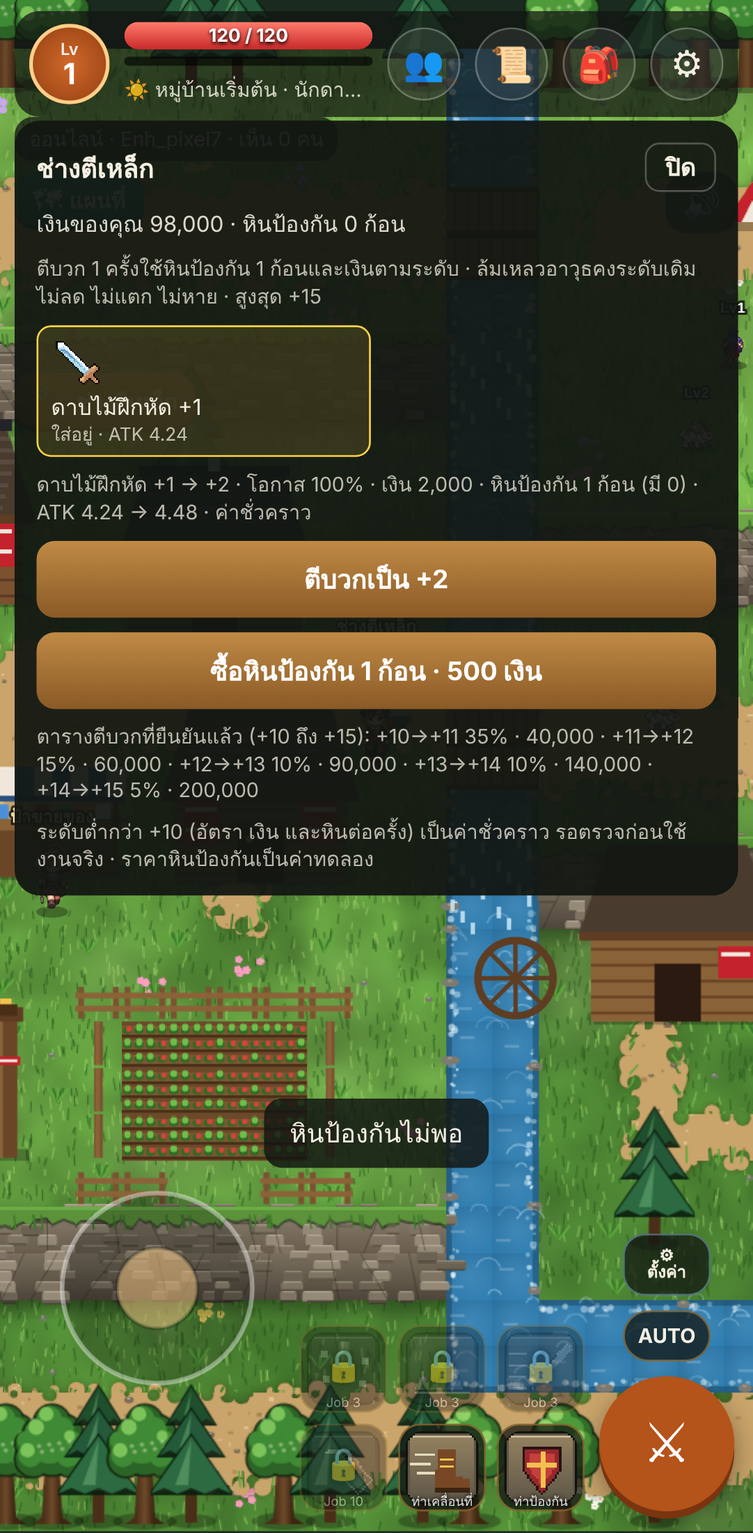
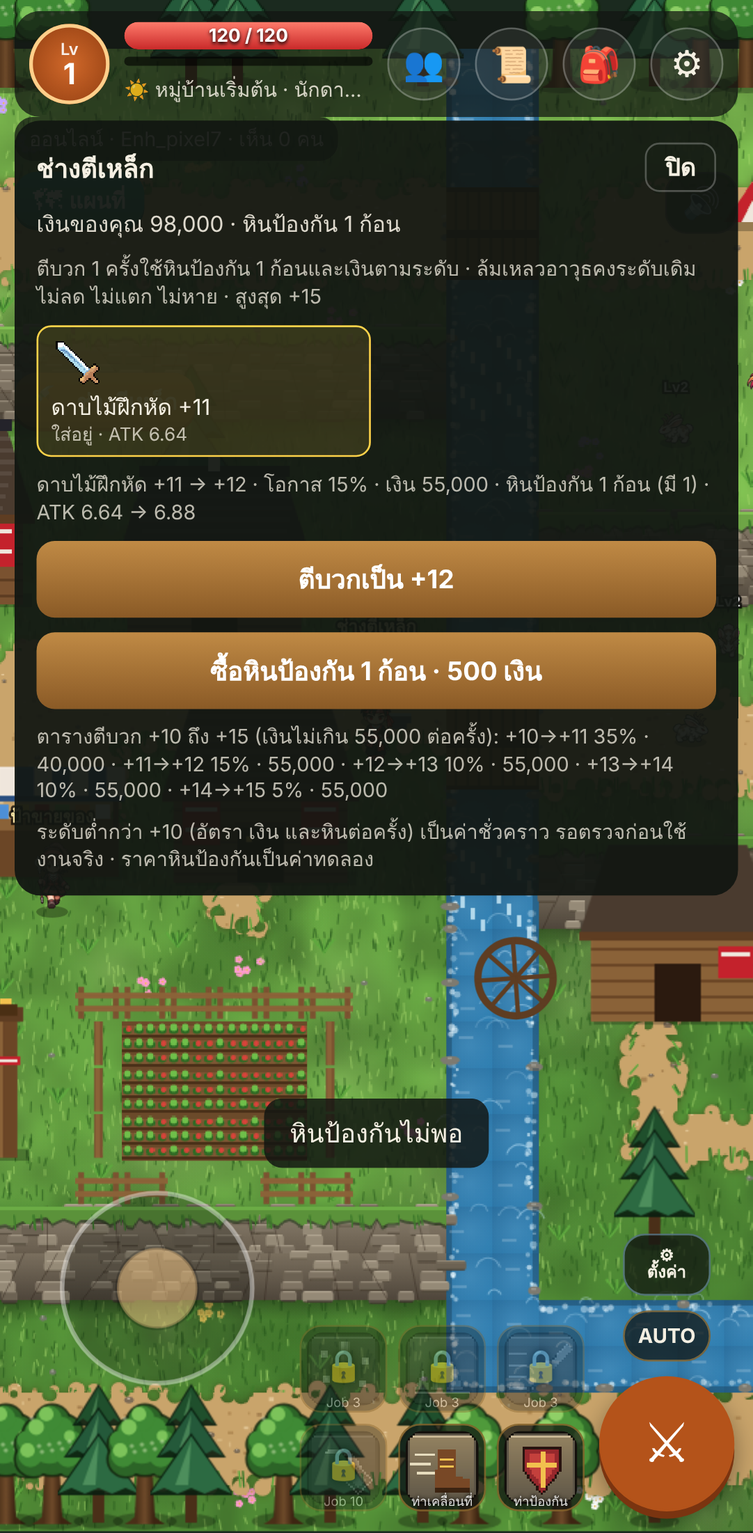
V2-R79: cap enhancement gold per attempt at 55,000 (owner instruction)
- CFG.enhance.goldCap = 55000. The server (sim.enhance) charges and checks
  min(step gold, cap). The V1.2 step values stay in the table for reference.
- +11 to +14 now cost 55,000 (V1.2: 60,000 to 200,000). +10 stays at 40,000.
- The panel shows the capped gold, and the ladder note states the cap.
- Total gold for +10 to +15: 2,680,952 (was 6,814,286). Attempts and stones unchanged (49.5).
- Tests: tools/enh-test.js 56/56 (cap checked in sim and in both phone viewports),
  sim 120, online 104, smoke 152. /healthz reports V2-R79.
- Shop, class-weapon, idle, splash-login and character audit were not rerun after this change.

Claude-Session: https://claude.ai/code/session_01Fx9SAiv1fdMtU2kmML8rNS

diff --git a/game/index.html b/game/index.html
@@ -597,8 +597,8 @@ const CFG={
  /* เศรษฐกิจ (V2-R73): เงินเริ่มต้น · เงินต่อค่าประสบการณ์ของมอนสเตอร์ · เงินบอส · ระยะซื้อของ (ช่อง) — ค่าทดลอง */
  economy:{startGold:100,goldPerExp:.12,bossGold:150,shopRange:3.5},
  /* ตีบวกอาวุธ (V2-R78 · ข้อกำหนด V1.2 ฉบับยืนยัน): steps[ระดับปัจจุบัน] = โอกาสสำเร็จ · เงินต่อครั้ง · หินป้องกันต่อครั้ง
-    ยืนยันแล้ว: +10 ถึง +15 · ระดับ +0 ถึง +9 (prov:1) เป็นค่าชั่วคราวรอตรวจ · powerPerLv (ATK ต่อระดับตีบวก) เป็นค่าทดลอง ยังไม่มีข้อกำหนดยืนยัน */
- enhance:{cap:15,stone:'enh_stone',powerPerLv:.06,cooldownMs:800,steps:[{rate:1,gold:2000,stone:1,prov:1},{rate:1,gold:2000,stone:1,prov:1},{rate:1,gold:2000,stone:1,prov:1},{rate:.85,gold:5000,stone:1,prov:1},{rate:.85,gold:5000,stone:1,prov:1},{rate:.85,gold:5000,stone:1,prov:1},{rate:.65,gold:15000,stone:1,prov:1},{rate:.65,gold:15000,stone:1,prov:1},{rate:.65,gold:15000,stone:1,prov:1},{rate:.65,gold:15000,stone:1,prov:1},{rate:.35,gold:40000,stone:1},{rate:.15,gold:60000,stone:1},{rate:.1,gold:90000,stone:1},{rate:.1,gold:140000,stone:1},{rate:.05,gold:200000,stone:1}]},
+    ยืนยันแล้ว: +10 ถึง +15 · ระดับ +0 ถึง +9 (prov:1) เป็นค่าชั่วคราวรอตรวจ · goldCap 55,000 = เพดานเงินต่อการพยายาม (คำสั่งเจ้าของ V2-R79; steps คงค่า V1.2 ไว้ให้ตรวจย้อนหลัง) · powerPerLv (ATK ต่อระดับตีบวก) เป็นค่าทดลอง ยังไม่มีข้อกำหนดยืนยัน */
+ enhance:{cap:15,stone:'enh_stone',powerPerLv:.06,cooldownMs:800,goldCap:55000,steps:[{rate:1,gold:2000,stone:1,prov:1},{rate:1,gold:2000,stone:1,prov:1},{rate:1,gold:2000,stone:1,prov:1},{rate:.85,gold:5000,stone:1,prov:1},{rate:.85,gold:5000,stone:1,prov:1},{rate:.85,gold:5000,stone:1,prov:1},{rate:.65,gold:15000,stone:1,prov:1},{rate:.65,gold:15000,stone:1,prov:1},{rate:.65,gold:15000,stone:1,prov:1},{rate:.65,gold:15000,stone:1,prov:1},{rate:.35,gold:40000,stone:1},{rate:.15,gold:60000,stone:1},{rate:.1,gold:90000,stone:1},{rate:.1,gold:140000,stone:1},{rate:.05,gold:200000,stone:1}]},
  classWeapon:{'นักดาบ':'sword','นักธนู':'bow','นักฆ่า':'daggers','นักสู้':'fists','ผู้สืบวิญญาณ':'staff','ผู้รักษา':'leafstaff','ผู้ใช้มนตรา':'book','ผู้พิทักษ์':'shield'},
  /* NPC ร้านค้า (V2-R73): ตำแหน่งเป็นช่อง · ร้านขาย [ไอเทม, ราคา] — ค่าทดลอง ยังไม่มีข้อกำหนดยืนยัน */
  npcs:[{id:'shop1',name:'ป้าขายของ',zone:'village',tx:12.5,ty:18.6,shop:[['potion_s',10],['potion_m',30],['sword_wood',50],['sword_iron',150],['bow_wood',50],['bow_iron',150],['daggers_wood',50],['daggers_iron',150],['fists_wood',50],['fists_iron',150],['staff_wood',50],['staff_iron',150],['leafstaff_wood',50],['leafstaff_iron',150],['book_wood',50],['book_iron',150],['shield_wood',50],['shield_iron',150]]},{id:'shop2',name:'ป้าขายของ',zone:'village2',tx:22.5,ty:22.6,shop:[['potion_s',10],['potion_m',30],['sword_wood',50],['sword_iron',150],['bow_wood',50],['bow_iron',150],['daggers_wood',50],['daggers_iron',150],['fists_wood',50],['fists_iron',150],['staff_wood',50],['staff_iron',150],['leafstaff_wood',50],['leafstaff_iron',150],['book_wood',50],['book_iron',150],['shield_wood',50],['shield_iron',150]]},{id:'smith1',name:'ช่างตีเหล็ก',role:'smith',zone:'village',tx:19.5,ty:14.5,shop:[['enh_stone',500]]},{id:'smith2',name:'ช่างตีเหล็ก',role:'smith',zone:'village2',tx:25.5,ty:15.5,shop:[['enh_stone',500]]}],
@@ -1832,10 +1832,10 @@ function renderEnh(){if(enhP.hidden)return;const E=HL.CFG.enhance,I=HL.CFG.items
   if(cur){const it=I[cur.id],lv=cur.enh;
     if(lv>=E.cap)enhNote(it.name+' ถึงระดับสูงสุด +'+E.cap+' แล้ว');
     else{const s=E.steps[lv];
-      enhNote(it.name+' +'+lv+' → +'+(lv+1)+' · โอกาส '+Math.round(s.rate*100)+'% · เงิน '+enhNum(s.gold)+' · หินป้องกัน '+s.stone+' ก้อน (มี '+enhStones()+') · ATK '+enhAtk(cur.id,lv)+' → '+enhAtk(cur.id,lv+1)+(s.prov?' · ค่าชั่วคราว':''));
+      enhNote(it.name+' +'+lv+' → +'+(lv+1)+' · โอกาส '+Math.round(s.rate*100)+'% · เงิน '+enhNum(Math.min(s.gold,E.goldCap))+' · หินป้องกัน '+s.stone+' ก้อน (มี '+enhStones()+') · ATK '+enhAtk(cur.id,lv)+' → '+enhAtk(cur.id,lv+1)+(s.prov?' · ค่าชั่วคราว':''));
       const go=document.createElement('button');go.className='enhgo';go.textContent=enhBusy?'กำลังตีบวก…':'ตีบวกเป็น +'+(lv+1);go.disabled=enhBusy;go.onclick=()=>enhGo(cur);enhP.appendChild(go)}}
   if(sm){const row=sm.shop.find(r=>r[0]===E.stone),bb=document.createElement('button');bb.className='enhgo';bb.textContent='ซื้อหินป้องกัน 1 ก้อน · '+enhNum(row?row[1]:0)+' เงิน';bb.onclick=()=>send({t:'shop',npc:sm.id,id:E.stone,n:1});enhP.appendChild(bb)}
-  enhNote('ตารางตีบวกที่ยืนยันแล้ว (+10 ถึง +15): '+E.steps.slice(10).map((s,k)=>'+'+(k+10)+'→+'+(k+11)+' '+Math.round(s.rate*100)+'% · '+enhNum(s.gold)).join(' · '));
+  enhNote('ตารางตีบวก +10 ถึง +15 (เงินไม่เกิน '+enhNum(E.goldCap)+' ต่อครั้ง): '+E.steps.slice(10).map((s,k)=>'+'+(k+10)+'→+'+(k+11)+' '+Math.round(s.rate*100)+'% · '+enhNum(Math.min(s.gold,E.goldCap))).join(' · '));
   enhNote('ระดับต่ำกว่า +10 (อัตรา เงิน และหินต่อครั้ง) เป็นค่าชั่วคราว รอตรวจก่อนใช้งานจริง · ราคาหินป้องกันเป็นค่าทดลอง');
 }
 /* หน้าต่างสถานะ (V2-R24): แตะวงเลเวลมุมซ้ายบน */

diff --git a/tools/enh-test.js b/tools/enh-test.js
@@ -25,6 +25,7 @@ const countStone = c => c.bag.reduce((n, s) => n + (s.id === EH.stone ? s.n : 0)
 {
   const V12 = [[.35, 40000], [.15, 60000], [.10, 90000], [.10, 140000], [.05, 200000]];
   rec('ระดับตีบวกสูงสุด +15', EH.cap === 15);
+  rec('เพดานเงินต่อการพยายาม 55,000 (คำสั่งเจ้าของ V2-R79)', EH.goldCap === 55000);
   rec('ตารางที่ยืนยันแล้ว +10→+11 ถึง +14→+15 (โอกาส · เงิน · หินป้องกัน 1)', V12.every(([r, g], k) => { const s = EH.steps[10 + k]; return s.rate === r && s.gold === g && s.stone === 1 && !s.prov; }));
   rec('ค่าต่ำกว่า +10 ติดธง prov (ค่าชั่วคราว รอตรวจ)', EH.steps.slice(0, 10).every(s => s.prov === 1));
   rec('หินป้องกันเป็นวัตถุดิบ (mat)', !!C.items[EH.stone] && C.items[EH.stone].type === 'mat');
@@ -70,6 +71,15 @@ const countStone = c => c.bag.reduce((n, s) => n + (s.id === EH.stone ? s.n : 0)
   rec('ล้มเหลวที่ +10 → คงที่ +10 ไม่ลด ไม่หาย', !r9.ok && r9.to === 10 && p9.c.enh.weapon === 10 && p9.c.eq.weapon === 'sword_hmong' && p9.c.gold === 1000000 - 40000 && countStone(p9.c) === 1, JSON.stringify({ ok: r9.ok, enh: p9.c.enh.weapon, gold: p9.c.gold, stone: countStone(p9.c) }));
   const p10 = mk({ enh: { weapon: 15 }, eq: { weapon: 'sword_hmong', armor: null, acc: null } }); p10.c.bag.push({ id: 'enh_stone', n: 2 });
   rec('ถึง +15 แล้ว → max (ตีบวกต่อไม่ได้)', simLow.enhance(p10, { src: 'eq', rid: rid() }, 600) === 'max');
+  // เพดานเงินต่อการพยายาม 55,000: ขั้น +11 ถึง +14 จ่ายไม่เกิน 55,000 (ค่า V1.2 เดิม 60,000 ถึง 200,000) · ขั้น +10 ยัง 40,000
+  const pC = mk({ gold: 55000, enh: { weapon: 11 }, eq: { weapon: 'sword_hmong', armor: null, acc: null } }); pC.c.bag.push({ id: 'enh_stone', n: 1 });
+  const rC = sim.enhance(pC, { src: 'eq', rid: rid() }, 800);
+  rec('ตีบวกจาก +11 จ่ายเพียง 55,000 (ไม่ใช่ 60,000) และหักครบ', rC.ok && rC.to === 12 && rC.gold === 55000 && pC.c.gold === 0, JSON.stringify({ gold: rC.gold, left: pC.c.gold, to: rC.to }));
+  const pC2 = mk({ gold: 54999, enh: { weapon: 14 }, eq: { weapon: 'sword_hmong', armor: null, acc: null } }); pC2.c.bag.push({ id: 'enh_stone', n: 1 });
+  rec('เงิน 54,999 ไม่พอสำหรับ +14 (เพดาน 55,000) → no-gold และไม่หัก', sim.enhance(pC2, { src: 'eq', rid: rid() }, 800) === 'no-gold' && pC2.c.gold === 54999);
+  const pT = mk({ gold: 40000, enh: { weapon: 10 }, eq: { weapon: 'sword_hmong', armor: null, acc: null } }); pT.c.bag.push({ id: 'enh_stone', n: 1 });
+  const rT = sim.enhance(pT, { src: 'eq', rid: rid() }, 800);
+  rec('ขั้น +10 ยังจ่าย 40,000 (ต่ำกว่าเพดาน)', rT.gold === 40000 && pT.c.gold === 0, JSON.stringify({ gold: rT.gold, left: pT.c.gold }));
 
   // อาวุธในกระเป๋าตีบวกได้โดยไม่ต้องใส่
   const p11 = mk({ eq: { weapon: null, armor: null, acc: null } }); p11.c.bag.push({ id: 'sword_iron', n: 1 }, { id: 'enh_stone', n: 2 });
@@ -196,7 +206,13 @@ const countStone = c => c.bag.reduce((n, s) => n + (s.id === EH.stone ? s.n : 0)
     await page.click('#shb');
     await page.waitForSelector('#enh:not([hidden])', { timeout: 5000 });
     await sleep(400);
+    // เพดานเงินต่อการพยายาม: ที่ +11 ต้องแสดงเงิน 55,000 (ไม่ใช่ 60,000) — ถ่ายภาพที่สถานะนี้ แล้วคืนค่าเดิมสำหรับการตรวจฐานข้อมูลด้านล่าง
+    p.c.enh.weapon = 11; p.c.bag.push({ id: 'enh_stone', n: 1 }); p.bagDirty = true; p.dirty = true;
+    await page.waitForFunction(() => (document.getElementById('enh').innerText || '').includes('+11 → +12'), null, { timeout: 6000 });
+    const t11 = await panel();
+    rec(label + ': หน้าช่างที่ +11 แสดงเงิน 55,000 (เพดาน) ไม่ใช่ 60,000', t11.includes('เงิน 55,000') && !t11.includes('เงิน 60,000'), t11.split('\n').filter(l => l.includes('+11 → +12')).join(' | ').slice(0, 140));
     await page.screenshot({ path: path.join(evDir, shot) });
+    p.c.enh.weapon = 1; p.c.bag = p.c.bag.filter(x => x.id !== 'enh_stone'); p.bagDirty = true; p.dirty = true;
     rec(label + ': ไม่มี JavaScript error', errors.length === 0, errors.slice(0, 3).join(' | ') || 'ไม่มี');
 
     await browser.close();

diff --git a/shared/world.js b/shared/world.js
@@ -299,8 +299,8 @@ const CFG={
  /* เศรษฐกิจ (V2-R73): เงินเริ่มต้น · เงินต่อค่าประสบการณ์ของมอนสเตอร์ · เงินบอส · ระยะซื้อของ (ช่อง) — ค่าทดลอง */
  economy:{startGold:100,goldPerExp:.12,bossGold:150,shopRange:3.5},
  /* ตีบวกอาวุธ (V2-R78 · ข้อกำหนด V1.2 ฉบับยืนยัน): steps[ระดับปัจจุบัน] = โอกาสสำเร็จ · เงินต่อครั้ง · หินป้องกันต่อครั้ง
-    ยืนยันแล้ว: +10 ถึง +15 · ระดับ +0 ถึง +9 (prov:1) เป็นค่าชั่วคราวรอตรวจ · powerPerLv (ATK ต่อระดับตีบวก) เป็นค่าทดลอง ยังไม่มีข้อกำหนดยืนยัน */
- enhance:{cap:15,stone:'enh_stone',powerPerLv:.06,cooldownMs:800,steps:[{rate:1,gold:2000,stone:1,prov:1},{rate:1,gold:2000,stone:1,prov:1},{rate:1,gold:2000,stone:1,prov:1},{rate:.85,gold:5000,stone:1,prov:1},{rate:.85,gold:5000,stone:1,prov:1},{rate:.85,gold:5000,stone:1,prov:1},{rate:.65,gold:15000,stone:1,prov:1},{rate:.65,gold:15000,stone:1,prov:1},{rate:.65,gold:15000,stone:1,prov:1},{rate:.65,gold:15000,stone:1,prov:1},{rate:.35,gold:40000,stone:1},{rate:.15,gold:60000,stone:1},{rate:.1,gold:90000,stone:1},{rate:.1,gold:140000,stone:1},{rate:.05,gold:200000,stone:1}]},
+    ยืนยันแล้ว: +10 ถึง +15 · ระดับ +0 ถึง +9 (prov:1) เป็นค่าชั่วคราวรอตรวจ · goldCap 55,000 = เพดานเงินต่อการพยายาม (คำสั่งเจ้าของ V2-R79; steps คงค่า V1.2 ไว้ให้ตรวจย้อนหลัง) · powerPerLv (ATK ต่อระดับตีบวก) เป็นค่าทดลอง ยังไม่มีข้อกำหนดยืนยัน */
+ enhance:{cap:15,stone:'enh_stone',powerPerLv:.06,cooldownMs:800,goldCap:55000,steps:[{rate:1,gold:2000,stone:1,prov:1},{rate:1,gold:2000,stone:1,prov:1},{rate:1,gold:2000,stone:1,prov:1},{rate:.85,gold:5000,stone:1,prov:1},{rate:.85,gold:5000,stone:1,prov:1},{rate:.85,gold:5000,stone:1,prov:1},{rate:.65,gold:15000,stone:1,prov:1},{rate:.65,gold:15000,stone:1,prov:1},{rate:.65,gold:15000,stone:1,prov:1},{rate:.65,gold:15000,stone:1,prov:1},{rate:.35,gold:40000,stone:1},{rate:.15,gold:60000,stone:1},{rate:.1,gold:90000,stone:1},{rate:.1,gold:140000,stone:1},{rate:.05,gold:200000,stone:1}]},
  classWeapon:{'นักดาบ':'sword','นักธนู':'bow','นักฆ่า':'daggers','นักสู้':'fists','ผู้สืบวิญญาณ':'staff','ผู้รักษา':'leafstaff','ผู้ใช้มนตรา':'book','ผู้พิทักษ์':'shield'},
  /* NPC ร้านค้า (V2-R73): ตำแหน่งเป็นช่อง · ร้านขาย [ไอเทม, ราคา] — ค่าทดลอง ยังไม่มีข้อกำหนดยืนยัน */
  npcs:[{id:'shop1',name:'ป้าขายของ',zone:'village',tx:12.5,ty:18.6,shop:[['potion_s',10],['potion_m',30],['sword_wood',50],['sword_iron',150],['bow_wood',50],['bow_iron',150],['daggers_wood',50],['daggers_iron',150],['fists_wood',50],['fists_iron',150],['staff_wood',50],['staff_iron',150],['leafstaff_wood',50],['leafstaff_iron',150],['book_wood',50],['book_iron',150],['shield_wood',50],['shield_iron',150]]},{id:'shop2',name:'ป้าขายของ',zone:'village2',tx:22.5,ty:22.6,shop:[['potion_s',10],['potion_m',30],['sword_wood',50],['sword_iron',150],['bow_wood',50],['bow_iron',150],['daggers_wood',50],['daggers_iron',150],['fists_wood',50],['fists_iron',150],['staff_wood',50],['staff_iron',150],['leafstaff_wood',50],['leafstaff_iron',150],['book_wood',50],['book_iron',150],['shield_wood',50],['shield_iron',150]]},{id:'smith1',name:'ช่างตีเหล็ก',role:'smith',zone:'village',tx:19.5,ty:14.5,shop:[['enh_stone',500]]},{id:'smith2',name:'ช่างตีเหล็ก',role:'smith',zone:'village2',tx:25.5,ty:15.5,shop:[['enh_stone',500]]}],

diff --git a/server/sim.js b/server/sim.js
@@ -289,13 +289,14 @@ function createSim({ rand = Math.random } = {}) {
     const it = CFG.items[id]; if (!it || it.type !== 'eq' || it.slot !== 'weapon') return 'not-weapon';
     if (lv >= EH.cap) return 'max';
     const st = EH.steps[lv]; if (!st) return 'invalid';
-    if ((c.gold || 0) < st.gold) return 'no-gold';
+    const gold = Math.min(st.gold, EH.goldCap); // เพดานเงินต่อการพยายาม 55,000 ตามคำสั่งเจ้าของ (V2-R79)
+    if ((c.gold || 0) < gold) return 'no-gold';
     if (countItem(p, EH.stone) < st.stone) return 'no-stone';
-    c.gold -= st.gold; takeItem(p, EH.stone, st.stone); // หักก่อนสุ่มเสมอ (ล้มเหลวก็หัก)
+    c.gold -= gold; takeItem(p, EH.stone, st.stone); // หักก่อนสุ่มเสมอ (ล้มเหลวก็หัก)
     const ok = rand() < st.rate;
     if (ok) { if (m.src === 'eq') setEnh(p, 'weapon', lv + 1); else c.bag[idx].enh = lv + 1; stats(p); }
     p.enhAt = now; p.bagDirty = true; p.dirty = true;
-    const r = { ok, from: lv, to: ok ? lv + 1 : lv, item: id, gold: st.gold, stone: st.stone, goldLeft: c.gold };
+    const r = { ok, from: lv, to: ok ? lv + 1 : lv, item: id, gold, stone: st.stone, goldLeft: c.gold };
     p.personal.push({ k: 'enh', ok, from: r.from, to: r.to, item: id });
     return r;
   }

diff --git a/server/server.js b/server/server.js
@@ -74,7 +74,7 @@ function createServer(opts = {}) {
     const url = new URL(req.url, 'http://x');
     for (const [k, v] of Object.entries(SEC_HEADERS)) res.setHeader(k, v);
     try {
-      if (req.method === 'GET' && url.pathname === '/healthz') return json(res, 200, { ok: true, ver: 'V2-R78', online: online.size, uptime: Math.round(process.uptime()), admins: conf.admins.length }); // admins = จำนวนชื่อใน ADMIN_USERS (ไม่เปิดเผยชื่อ) ใช้ตรวจว่าตั้งค่าบน Render แล้ว
+      if (req.method === 'GET' && url.pathname === '/healthz') return json(res, 200, { ok: true, ver: 'V2-R79', online: online.size, uptime: Math.round(process.uptime()), admins: conf.admins.length }); // admins = จำนวนชื่อใน ADMIN_USERS (ไม่เปิดเผยชื่อ) ใช้ตรวจว่าตั้งค่าบน Render แล้ว
       if (req.method === 'GET' && (url.pathname === '/' || url.pathname === '/index.html')) {
         res.writeHead(200, { 'content-type': 'text/html; charset=utf-8', 'cache-control': 'no-cache' });
         return fs.createReadStream(conf.gameFile).pipe(res);

diff --git a/tools/weapon_balance.py b/tools/weapon_balance.py
@@ -23,8 +23,9 @@ def load_cfg():
 
 
 def step(cfg, lv):
+    """ค่าของขั้น lv หลังใช้เพดานเงินต่อการพยายาม (goldCap, คำสั่งเจ้าของ V2-R79)"""
     s = cfg['steps'][lv]
-    return s['rate'], s['gold'], s['stone'], bool(s.get('prov'))
+    return s['rate'], min(s['gold'], cfg['goldCap']), s['stone'], bool(s.get('prov'))
 
 
 def expected(cfg, a, b):
@@ -65,15 +66,15 @@ def main():
         s = cfg['steps'][10 + k]
         assert abs(s['rate'] - r) < 1e-12 and s['gold'] == g and s['stone'] == 1 and not s.get('prov'), 'ไม่ตรงข้อกำหนด +%d' % (10 + k)
 
-    print('## 1. ตารางที่ยืนยันแล้ว: +10 ถึง +15 (อ่านจาก CFG.enhance)')
-    print('| จาก → ไป | โอกาสสำเร็จ | เงินต่อครั้ง | หินป้องกันต่อครั้ง | ครั้งที่คาดหวังในขั้นนี้ | เงินที่คาดหวังในขั้นนี้ |')
-    print('| --- | --- | --- | --- | --- | --- |')
+    print('## 1. ตารางตีบวก +10 ถึง +15 (อ่านจาก CFG.enhance; เพดานเงินต่อครั้ง %s)' % f"{cfg['goldCap']:,}")
+    print('| จาก → ไป | โอกาสสำเร็จ | เงินตาม V1.2 | เงินที่ใช้จริง | หินป้องกันต่อครั้ง | ครั้งที่คาดหวังในขั้นนี้ | เงินที่คาดหวังในขั้นนี้ |')
+    print('| --- | --- | --- | --- | --- | --- | --- |')
     for lv in range(10, 15):
         r, g, st, _ = step(cfg, lv)
         a, gg, ss = expected(cfg, lv, lv + 1)
-        print('| +%d → +%d | %d%% | %s | %d | %.1f | %s |' % (lv, lv + 1, round(r * 100), f'{g:,}', st, a, f'{gg:,.0f}'))
+        print('| +%d → +%d | %d%% | %s | %s | %d | %.1f | %s |' % (lv, lv + 1, round(r * 100), f"{cfg['steps'][lv]['gold']:,}", f'{g:,}', st, a, f'{gg:,.0f}'))
     a10, g10, s10 = expected(cfg, 10, 15)
-    print('| **รวม +10 → +15** | | | | **%.1f** | **%s** |' % (a10, f'{g10:,.0f}'))
+    print('| **รวม +10 → +15** | | | | | **%.1f** | **%s** |' % (a10, f'{g10:,.0f}'))
     print()
     print('- หินป้องกันที่คาดหวังจาก +10 ถึง +15: %.1f ก้อน (ครั้งละ 1 ก้อน ทุกการพยายาม)' % s10)
 

diff --git a/docs/ENHANCEMENT_V12.md b/docs/ENHANCEMENT_V12.md
@@ -1,4 +1,4 @@
-# ระบบตีบวกอาวุธ V1.2 (ฉบับยืนยัน) — สถานะการพัฒนา V2-R78
+# ระบบตีบวกอาวุธ V1.2 (ฉบับยืนยัน) — สถานะการพัฒนา V2-R78 · แก้เพดานเงิน V2-R79
 
 บันทึกเมื่อ 2026-11-15 · แทนที่ข้อเสนอ V1 ใน `docs/WEAPON_SYSTEM.md`
 
@@ -7,30 +7,35 @@
 | ส่วน | สถานะ |
 | --- | --- |
 | กติกาที่ยืนยันแล้ว (ส่วน 1–2 ของ V1.2) | **พัฒนาแล้ว · ทดสอบผ่านอัตโนมัติ** |
+| เพดานเงินต่อการพยายาม 55,000 (คำสั่งเจ้าของ V2-R79) | **ทำแล้ว · ทดสอบผ่านอัตโนมัติ** |
 | ช่างตีเหล็ก หน้าต่างตีบวก คลังวัตถุดิบ โค้ดเซิร์ฟเวอร์ | **พัฒนาแล้ว · ทดสอบผ่านอัตโนมัติ** (Pixel 7 และ iPhone 13 บน Chromium) |
 | ติดตั้งในโค้ด | **ทำแล้ว** · ยังไม่ได้ deploy ขึ้นเซิร์ฟเวอร์จริง (Render) |
-| ค่าชั่วคราว (ส่วน 3) และเศรษฐกิจ (ส่วน 4) | **รอเจ้าของตัดสิน** ก่อนเปิดให้ผู้เล่นใช้จริง |
+| ค่าชั่วคราว (ส่วน 2) | **ยอมรับใช้ระหว่างทดสอบ** (ตอบ "1-2") · ยังไม่ใช่ค่าสุดท้าย |
+| เศรษฐกิจ +10 ถึง +15 (ส่วน 3) | **รอเจ้าของเลือกทาง** — หลังเพดานยังประมาณ 2.68 ล้านเงิน |
 | WebKit / iPhone จริง | **ยังไม่ได้ทดสอบ** (เครื่องทดสอบมีเฉพาะ Chromium) |
 
-## 1. ตารางที่ยืนยันแล้ว (+10 ถึง +15)
+## 1. ตารางตีบวก +10 ถึง +15
 
 จาก → ไป คืออัตราของการเสริมจากระดับปัจจุบัน (ตามที่เขียนใน V1.2)
 
-| จาก → ไป | โอกาสสำเร็จ | เงินต่อครั้ง | หินป้องกันต่อครั้ง |
-| --- | --- | --- | --- |
-| +10 → +11 | 35% | 40,000 | 1 |
-| +11 → +12 | 15% | 60,000 | 1 |
-| +12 → +13 | 10% | 90,000 | 1 |
-| +13 → +14 | 10% | 140,000 | 1 |
-| +14 → +15 | 5% | 200,000 | 1 |
+ตามคำสั่งเจ้าของ (V2-R79) **เงินที่จ่ายต่อการพยายามจำกัดไม่เกิน 55,000** — ขั้นที่ค่า V1.2 เดิมเกินเพดานใช้ 55,000 แทน ค่าเดิมคงไว้ในตารางข้างล่างเพื่ออ้างอิง
+
+| จาก → ไป | โอกาสสำเร็จ | เงินตาม V1.2 (อ้างอิง) | เงินที่ใช้จริง (เพดาน 55,000) | หินป้องกันต่อครั้ง |
+| --- | --- | --- | --- | --- |
+| +10 → +11 | 35% | 40,000 | **40,000** | 1 |
+| +11 → +12 | 15% | 60,000 | **55,000** | 1 |
+| +12 → +13 | 10% | 90,000 | **55,000** | 1 |
+| +13 → +14 | 10% | 140,000 | **55,000** | 1 |
+| +14 → +15 | 5% | 200,000 | **55,000** | 1 |
 
 - ระดับสูงสุด **+15** · ตีบวกเกินนี้ไม่ได้
 - **กฎหินป้องกันแบบ A** (ใช้ทุกระดับตั้งแต่ +0): ทุกการพยายามใช้หินป้องกัน 1 ก้อน · สำเร็จ +1 ตามปกติ · ล้มเหลวอาวุธคงระดับเดิม ไม่ลดระดับ ไม่แตก ไม่หาย
 - เงินและหินถูกหักก่อนการสุ่มเสมอ (ล้มเหลวก็หัก)
+- เพดานเป็นเพดาน**ต่อการพยายาม** ไม่ใช่ยอดรวมของการตีบวก (ถ้าหมายถึงยอดรวม ให้แจ้งได้)
 
-## 2. ค่าชั่วคราว (ยังไม่ยืนยัน — ต้องตรวจก่อนใช้งานจริง)
+## 2. ค่าชั่วคราว (ยอมรับใช้ระหว่างทดสอบ — ยังไม่ใช่ค่าสุดท้าย)
 
-ข้อกำหนดระบุว่า "อัตราสำเร็จและค่าเงินสำหรับระดับต่ำกว่า +10 ยังคงต้องตรวจสอบ" จึงใช้ค่าต่อไปนี้ไปก่อน และติดธง `prov` ในค่ากลาง หน้าต่างตีบวกจะแสดงคำว่า "ค่าชั่วคราว"
+ข้อกำหนดระบุว่า "อัตราสำเร็จและค่าเงินสำหรับระดับต่ำกว่า +10 ยังคงต้องตรวจสอบ" จึงใช้ค่าต่อไปนี้ไปก่อน และติดธง `prov` ในค่ากลาง หน้าต่างตีบวกจะแสดงคำว่า "ค่าชั่วคราว" เจ้าของตอบ "1-2" ซึ่งผู้พัฒนาตีความว่ายอมรับให้ใช้ค่าชั่วคราวเหล่านี้ระหว่างทดสอบ
 
 | รายการ | ค่าที่ใช้อยู่ | ที่มา |
 | --- | --- | --- |
@@ -41,31 +46,33 @@
 | คูลดาวน์การกดตีบวก | 0.8 วินาที | ผู้พัฒนา (กันกดรัว) |
 | ตำแหน่งช่างตีเหล็ก | หมู่บ้านเริ่มต้น (19.5, 14.5) · หมู่บ้านกางเขา (25.5, 15.5) | จุดว่างห่างจากร้านค้าเกิน 2 เท่าของระยะซื้อ |
 
-## 3. เศรษฐกิจ (ต้องตัดสินก่อนเปิดใช้จริง)
+## 3. เศรษฐกิจ (รอเจ้าของเลือกทาง)
 
-ตัวเลขจาก `python3 -B tools/weapon_balance.py` (อ่านค่าจาก `CFG.enhance` โดยตรง; จำลองแบบสุ่ม 100,000 ครั้งได้ค่าตรงภายใน 0.2%)
+ตัวเลขจาก `python3 -B tools/weapon_balance.py` (อ่านค่าจาก `CFG.enhance` รวมเพดาน 55,000 โดยตรง; จำลองแบบสุ่ม 100,000 ครั้งได้ค่าตรงภายใน 0.2%)
 
-| ช่วง | ครั้งที่คาดหวัง | เงินที่คาดหวัง | หินป้องกันที่คาดหวัง |
+| ช่วง | ครั้งที่คาดหวัง | เงินที่คาดหวัง (หลังเพดาน) | หินป้องกันที่คาดหวัง |
 | --- | --- | --- | --- |
-| +10 ถึง +15 | 49.5 | **6,814,286** | 49.5 |
-| +0 ถึง +15 (รวมค่าชั่วคราว) | 62.2 | 6,930,240 | 62.2 |
+| +10 ถึง +15 | 49.5 | **2,680,952** | 49.5 |
+| +0 ถึง +15 (รวมค่าชั่วคราว) | 62.2 | 2,796,907 | 62.2 |
+
+อ้างอิง: ก่อนเพดาน 55,000 ค่า V1.2 เดิมจาก +10 ถึง +15 ใช้เงิน 6,814,286
 
 - เงินจากการล่าปัจจุบัน: EXP × 0.12 เงิน — เสือ (EXP 193) ให้ประมาณ 23 เงินต่อตัว
-- จ่ายเงิน +10 ถึง +15 ต้องล่าประมาณ **294,000 ตัว** — เศรษฐกิจปัจจุบันยังรองรับไม่ได้
-- ทางเลือกที่เจ้าของต้องเลือก: (ก) ปรับ `CFG.economy` ทั้งเกม · (ข) ลดราคาขั้น +10 ถึง +15 · (ค) เพิ่มแหล่งเงินและหินป้องกัน (ตอนนี้หินมีแหล่งเดียวคือซื้อที่ช่าง)
-- ผู้พัฒนาไม่ได้เปลี่ยนค่าที่เจ้าของยืนยันแล้วเอง
+- จ่ายเงิน +10 ถึง +15 ต้องล่าประมาณ **115,800 ตัว** (ก่อนเพดานประมาณ 294,000 ตัว) — ยังสูงกว่าเศรษฐกิจปัจจุบันมาก
+- ทางเลือกที่เจ้าของต้องเลือก: (ก) ปรับ `CFG.economy` ทั้งเกม · (ข) ลดราคาขั้น +10 ถึง +15 เพิ่มเติม · (ค) เพิ่มแหล่งเงินและหินป้องกัน (ตอนนี้หินมีแหล่งเดียวคือซื้อที่ช่าง)
+- ผู้พัฒนาไม่ได้เปลี่ยนค่าเศรษฐกิจของเกมเอง
 
 ## 4. สิ่งที่สร้างแล้ว และอยู่ที่ไหน
 
 | ส่วน | ที่อยู่ในโค้ด | รายละเอียด |
 | --- | --- | --- |
-| ค่ากลาง | `game/index.html` `CFG.enhance` · `CFG.npcs` (smith1, smith2) · `CFG.items.enh_stone` | ค่าทั้งหมดอยู่จุดเดียว เซิร์ฟเวอร์อ่านจาก `shared/world.js` |
-| ตรรกะตีบวก | `server/sim.js` `enhance()` | ตรวจ ระยะ คูลดาวน์ คำขอซ้ำ ระดับสูงสุด เงิน หิน แล้วหักและสุ่ม |
+| ค่ากลาง | `game/index.html` `CFG.enhance` (`goldCap: 55000`) · `CFG.npcs` (smith1, smith2) · `CFG.items.enh_stone` | ค่าทั้งหมดอยู่จุดเดียว เซิร์ฟเวอร์อ่านจาก `shared/world.js` ค่า `steps` คง V1.2 ไว้ |
+| ตรรกะตีบวก | `server/sim.js` `enhance()` | ตรวจ ระยะ คูลดาวน์ คำขอซ้ำ ระดับสูงสุด เงิน (ตามเพดาน) หิน แล้วหักและสุ่ม |
 | การย้ายอาวุธ | `server/sim.js` `inv()` `swapClassWeapon()` `addPlayer()` `stats()` | ค่าตีบวกติดไปกับอาวุธเมื่อใส่ ถอด เปลี่ยนอาชีพ |
 | ข้อความและการตอบ | `server/server.js` ข้อความ `enh` | สำเร็จ/ล้มเหลวส่งเป็นเหตุการณ์ของผู้เล่น ปฏิเสธส่ง `deny` พร้อมรหัสเหตุผล |
 | ฐานข้อมูล | `server/db.js` คอลัมน์ `characters.enh` · ตาราง `enh_log` · `logEnh()` | บันทึกทุกการพยายาม และบันทึกตัวละครทันทีหลังตีบวก |
 | ช่างตีเหล็ก | `game/index.html` `drawNpc` · `shopTick` · `toggleShop` | ปุ่ม 🔨 ช่างตีเหล็ก ขึ้นเมื่อยืนใกล้ · ทั่งเป็นภาพชั่วคราววาดด้วยโค้ด |
-| หน้าต่างตีบวก | `game/index.html` `#enh` · `renderEnh()` · `enhGo()` | เลือกอาวุธ (ที่ใส่อยู่และในกระเป๋า) · อัตรา เงิน หิน ATK · ปุ่มตีบวก · ปุ่มซื้อหิน · ตารางที่ยืนยันแล้ว |
+| หน้าต่างตีบวก | `game/index.html` `#enh` · `renderEnh()` · `enhGo()` | เลือกอาวุธ (ที่ใส่อยู่และในกระเป๋า) · อัตรา เงิน (ตามเพดาน) หิน ATK · ปุ่มตีบวก · ปุ่มซื้อหิน · ตารางตีบวก +10 ถึง +15 |
 | คลังวัตถุดิบ | ไอเทม `enh_stone` (ประเภท mat) ในกระเป๋า · ไอคอน `tools/build_enh_stone_icon.py` | แสดงเป็น "หินป้องกันการตีบวก ×N" · อาวุธที่ตีบวกแสดง "+N" ทั้งในกระเป๋าและช่องอาวุธ |
 
 ## 5. ข้อกำหนดฝั่งเซิร์ฟเวอร์ (ส่วน 3 ของ V1.2)
@@ -85,7 +92,7 @@
 | --- | --- | --- |
 | ระดับสูงสุด +15 | ยืนยัน | ทำแล้ว · ทดสอบผ่าน |
 | อัตราสำเร็จ +10 ถึง +15 | ยืนยัน | ทำแล้ว · ทดสอบผ่าน (จำลอง 20,000 ครั้งที่ +10 ได้ 35.1%) |
-| ค่าเงิน +10 ถึง +15 | ยืนยัน | ทำแล้ว · ทดสอบผ่าน |
+| ค่าเงิน +10 ถึง +15 | ยืนยัน (ตาราง V1.2) · มีเพดาน 55,000 ต่อการพยายามตามคำสั่ง V2-R79 | ทำแล้ว · ทดสอบผ่าน |
 | หินป้องกัน 1 ก้อนทุกระดับ | ยืนยัน | ทำแล้ว · ทดสอบผ่าน |
 | ล้มเหลวแล้วไม่ลดระดับเมื่อใช้หิน | ยืนยัน | ทำแล้ว · ทดสอบผ่าน |
 | จำนวนวัตถุดิบพิเศษ | รออนุมัติ | **ยังไม่ทำ** (ตามข้อกำหนด) |
@@ -93,21 +100,21 @@
 | ติดตั้งลงเกมจริง | ยังไม่ได้ดำเนินการ | ติดตั้งในโค้ดแล้ว · **ยังไม่ deploy ขึ้น Render** |
 | ทดสอบบนเซิร์ฟเวอร์ | ยังไม่ได้ดำเนินการ | ทดสอบบนเซิร์ฟเวอร์ที่รันในเครื่อง (in-process) ผ่าน · **ยังไม่ทดสอบบนเซิร์ฟเวอร์จริง** |
 
-## 7. ผลทดสอบ (V2-R78)
+## 7. ผลทดสอบ
 
 | ชุดทดสอบ | ผล | หมายเหตุ |
 | --- | --- | --- |
-| `tools/enh-test.js` (ใหม่) | **50/50** | ค่าตั้งและตรรกะ 24 · ฐานข้อมูล 2 · เกม Pixel 7 12 · เกม iPhone 13 12 · เป็นผลของการรันล่าสุด · ผลเต็มที่ `docs/evidence/enh_r78_test_output.txt` |
-| `tools/sim-test.js` | 120/120 | หลังแก้ฝั่งเซิร์ฟเวอร์ |
-| `tools/shop-test.js` | 16/16 | ร้านค้าเดิม |
-| `tools/class-weapon-test.js` | 12/12 | การเปลี่ยนอาชีพและอาวุธ |
-| `tools/online-test.js` | 104/104 | ออนไลน์สองเครื่อง |
-| `tools/smoke-test.js` | 152/152 | โหลดเกมและทรัพยากร |
-| `tools/idle-test.js` | 6/6 | ท่ายืน |
-| `tools/splash-login-test.js` | 7/7 | ลำดับหน้าเข้าเกม |
-| `tools/character_audit.py` | 16/16 | ตัวละครและ sprite ไม่เปลี่ยน |
+| `tools/enh-test.js` (ใหม่) | **56/56** | ค่าตั้งและตรรกะ 28 (รวมเพดาน 55,000 สามข้อ) · ฐานข้อมูล 2 · เกม Pixel 7 13 · เกม iPhone 13 13 (รวมการแสดงเงิน 55,000 ที่ +11) · ผลของการรันล่าสุด `docs/evidence/enh_r78_test_output.txt` |
+| `tools/sim-test.js` | 120/120 | รันซ้ำหลังแก้เพดาน |
+| `tools/online-test.js` | 104/104 | รันซ้ำหลังแก้เพดาน |
+| `tools/smoke-test.js` | 152/152 | รันซ้ำหลังแก้หน้าต่างตีบวก |
+| `tools/shop-test.js` | 16/16 | ผลจากรอบ V2-R78 (ไม่ได้รันซ้ำหลังแก้เพดาน) |
+| `tools/class-weapon-test.js` | 12/12 | ผลจากรอบ V2-R78 (ไม่ได้รันซ้ำหลังแก้เพดาน) |
+| `tools/idle-test.js` | 6/6 | ผลจากรอบ V2-R78 (ไม่ได้รันซ้ำหลังแก้เพดาน) |
+| `tools/splash-login-test.js` | 7/7 | ผลจากรอบ V2-R78 (ไม่ได้รันซ้ำหลังแก้เพดาน) |
+| `tools/character_audit.py` | 16/16 | ผลจากรอบ V2-R78 (ไม่ได้รันซ้ำหลังแก้เพดาน) |
 
-หลักฐานภาพหน้าจอ: `docs/evidence/enh_r78_panel_pixel7.png` และ `docs/evidence/enh_r78_panel_iphone13.png`
+หลักฐานภาพหน้าจอ: `docs/evidence/enh_r78_panel_pixel7.png` และ `docs/evidence/enh_r78_panel_iphone13.png` (ภาพถ่ายที่สถานะ +11 แสดงเงิน 55,000)
 
 ## 8. สิ่งที่ยังไม่ได้ทำหรือยังไม่รู้
 
@@ -116,14 +123,16 @@
 - ยังไม่มีแหล่งหินป้องกันจากมอนสเตอร์หรือดรอป มีแหล่งเดียวคือซื้อที่ช่าง
 - ยังไม่มีหน้าแสดงประวัติการตีบวกให้ผู้เล่นหรือแอดมิน (มีตาราง `enh_log` ในฐานข้อมูล)
 - ทั่งของช่างตีเหล็กเป็นภาพชั่วคราววาดด้วยโค้ด รอศิลปออกแบบ
-- ค่าชั่วคราวในส่วน 2 และเศรษฐกิจในส่วน 3 ยังไม่ได้รับการยืนยัน
+- ค่าชั่วคราวในส่วน 2 และเศรษฐกิจในส่วน 3 ยังไม่ได้รับการยืนยันเป็นค่าสุดท้าย
 
 ## 9. คำถามที่ต้องตอบ
 
-> **ตอบ "1-2" (2026-11-15):** ผู้พัฒนาตีความว่าตกลงข้อ 1 และ 2 ตามที่เสนอ — ค่าชั่วคราวใช้ต่อระหว่างทดสอบ และเศรษฐกิจ +10 ถึง +15 ยังไม่เปลี่ยนค่า รอเจ้าของเลือกทาง (ดูส่วน 3) ข้อ 3 ถึง 7 ยังค้างอยู่
+> **ตอบ "1-2" (2026-11-15):** ผู้พัฒนาตีความว่าตกลงข้อ 1 และ 2 ตามที่เสนอ — ค่าชั่วคราวใช้ต่อระหว่างทดสอบ และเศรษฐกิจยังไม่เปลี่ยนค่าในตอนนั้น
+>
+> **คำสั่งเจ้าของ (V2-R79):** จำกัดเงินต่อการพยายามตีบวกไม่เกิน 55,000 — ทำแล้ว (ส่วน 1)
 
-1. ค่าชั่วคราว +0 ถึง +9 (อัตรา เงิน) ยืนยัน หรือส่งค่าใหม่
-2. เศรษฐกิจ: จ่าย +10 ถึง +15 ประมาณ 6.8 ล้านเงิน ต้องการให้ปรับแบบใด (ดูส่วน 3)
+1. ค่าชั่วคราว +0 ถึง +9 (อัตรา เงิน) ใช้ต่อระหว่างทดสอบ · ยืนยันเป็นค่าสุดท้ายเมื่อไร
+2. เศรษฐกิจ: หลังเพดาน 55,000 ยังจ่าย +10 ถึง +15 ประมาณ 2.68 ล้านเงิน (ประมาณ 115,800 ตัวจากเสือ) ต้องการให้ปรับแบบใด (ดูส่วน 3)
 3. หินป้องกัน: ราคาที่ช่าง (ตอนนี้ 500) และแหล่งที่มาเพิ่มเติม
 4. โบนัส ATK ต่อระดับ 6% ยืนยัน หรือเปลี่ยน
 5. ตำแหน่งช่างตีเหล็กในหมู่บ้านทั้งสองแห่ง ยอมรับหรือย้าย

diff --git a/docs/STATUS.md b/docs/STATUS.md
@@ -1,6 +1,6 @@
 # สถานะงาน
 
-อัปเดต: 2026-11-15 (รอบ V2-R78)
+อัปเดต: 2026-11-15 (รอบ V2-R79)
 
 ความหมายสถานะ: **ออกแบบแล้ว** = มีเอกสาร ยังไม่มีโค้ด · **พัฒนาแล้ว** = มีโค้ด ยังไม่ได้ทดสอบ · **รอทดสอบ** = ต้องทดสอบบนเครื่องจริง/โดยเจ้าของ · **ทดสอบผ่าน** = ทดสอบแล้วผ่าน ระบุวิธี · **พบปัญหา** = ดู `BUGS.md`
 
@@ -37,7 +37,7 @@
 | 4 | คลังวัตถุดิบ: หินป้องกันเป็นวัตถุดิบในกระเป๋า แสดง ×N · อาวุธแสดง +N | ทดสอบผ่าน (อัตโนมัติ) | `tools/enh-test.js` ส่วนที่ 3 |
 | 4 | โค้ดเซิร์ฟเวอร์ตีบวก: สุ่มบนเซิร์ฟเวอร์ คำขอซ้ำ คูลดาวน์ บันทึกประวัติ | ทดสอบผ่าน (ในเครื่อง) · ยังไม่ deploy | `tools/enh-test.js` ส่วนที่ 1–2 · ตาราง `enh_log` |
 | 4 | ค่าชั่วคราว: อัตรา/เงิน +0 ถึง +9 · ATK 6% ต่อระดับ · ราคาหิน 500 · ตำแหน่งช่าง | รอตัดสิน | `docs/ENHANCEMENT_V12.md` ส่วน 2 |
-| 4 | เศรษฐกิจของการตีบวก: +10 ถึง +15 ≈ 6.8 ล้านเงิน (เงินล่าปัจจุบันไม่รองรับ) | รอตัดสิน | `docs/ENHANCEMENT_V12.md` ส่วน 3 |
+| 4 | เพดานเงินต่อการพยายาม 55,000 (คำสั่งเจ้าของ V2-R79) · เศรษฐกิจ +10 ถึง +15 ≈ 2.68 ล้านเงิน | เพดานทำแล้ว · เศรษฐกิจรอตัดสิน | `tools/enh-test.js` 56/56 · `docs/ENHANCEMENT_V12.md` ส่วน 3 |
 | 4 | วัตถุดิบพิเศษและระบบการันตี | ยังไม่ทำ (รออนุมัติ / ยังไม่อนุมัติ) | ตาม V1.2 ส่วน 4 |
 | 7 | ตัวละคร 8 อาชีพ × ชาย/หญิง | ทดสอบผ่าน | character_audit 16/16 (V2-R70) |
 | 7 | สกิล 15 ต่ออาชีพ ช่อง 6 ช่อง | พบปัญหา | BUG-003 |

diff --git a/docs/CHANGELOG.md b/docs/CHANGELOG.md
@@ -1,5 +1,15 @@
 # ประวัติเวอร์ชัน
 
+## V2-R79 — 2026-11-15 (เพดานเงินต่อการพยายามตีบวก 55,000 ตามคำสั่งเจ้าของ)
+
+- ตามคำสั่งเจ้าของ: เงินที่จ่ายต่อการพยายามตีบวกจำกัดไม่เกิน 55,000 — ขั้น +11 ถึง +14 ใช้ 55,000 แทน 60,000 ถึง 200,000 ค่า V1.2 เดิมยังอยู่ในตาราง `CFG.enhance.steps` เพื่ออ้างอิง ขั้น +10 → +11 (40,000) ไม่เปลี่ยน
+- ตั้งค่าเพดานเป็น `CFG.enhance.goldCap` ค่าเดียว · เซิร์ฟเวอร์ (`sim.enhance`) คิดและตรวจเงินตามเพดาน · หน้าต่างตีบวกแสดงเงินตามเพดาน
+- รวม +10 ถึง +15 เหลือ 2,680,952 เงิน (จาก 6,814,286) จำนวนครั้งและหินไม่เปลี่ยน (49.5 ก้อน)
+- `/healthz` เป็น `V2-R79`
+- ทดสอบ: `tools/enh-test.js` 56/56 (รวมเพดานในเซิร์ฟเวอร์ 3 ข้อ และในหน้าต่างตีบวก 2 จุด) · sim 120/120 · online 104/104 · smoke 152/152
+- ชุดอื่น (shop, class-weapon, idle, splash-login, character audit) ไม่ได้รันซ้ำหลังการแก้นี้ ผลยังเป็นของรอบ V2-R78
+- ยังไม่ได้ deploy ขึ้น Render
+
 ## V2-R78 — 2026-11-15 (ตีบวกอาวุธ V1.2: ช่างตีเหล็ก หน้าต่างตีบวก คลังวัตถุดิบ และตรรกะเซิร์ฟเวอร์)
 
 - นำกติกา V1.2 ที่ยืนยันแล้วเข้าเกม: ระดับสูงสุด +15 · ตาราง +10 ถึง +15 (อัตรา เงิน หิน) · กฎหินป้องกันแบบ A: ทุกการพยายามใช้หิน 1 ก้อน สำเร็จ +1 ล้มเหลวคงระดับ ไม่แตก ไม่หาย — รายละเอียด `docs/ENHANCEMENT_V12.md`

diff --git a/docs/DECISIONS.md b/docs/DECISIONS.md
@@ -38,3 +38,4 @@
 | 2026-11-15 | เศรษฐกิจของการตีบวก | จาก +10 ถึง +15 ต้องเงินประมาณ 6.8 ล้าน (ประมาณ 294,000 ตัวจากเสือ) — เศรษฐกิจปัจจุบันยังรองรับไม่ได้ | ยังไม่เปลี่ยนค่าเศรษฐกิจของเกม รอเจ้าของเลือกวิธีปรับ (`docs/ENHANCEMENT_V12.md` ส่วน 3) |
 | 2026-11-15 | วัตถุดิบพิเศษและระบบการันตี | ยังไม่ทำ | V1.2 ระบุว่า "รออนุมัติ" และ "ยังไม่อนุมัติ" |
 | 2026-11-15 | ตอบ "1-2" ต่อคำถามข้อ 1 และ 2 ของรายงาน V2-R78 (เศรษฐกิจ และค่าชั่วคราว) | ตกลงตามที่เสนอ: ค่าชั่วคราว +0 ถึง +9, โบนัส ATK 6%, หิน 500 และตำแหน่งช่างใช้ต่อระหว่างทดสอบ · เศรษฐกิจ +10 ถึง +15 ยังไม่เปลี่ยนค่า รอเลือกทาง | ผู้พัฒนาตีความเอง ไม่ใช่การอนุมัติตัวเลข 6.8 ล้านเงิน · เจ้าของแก้ได้ (`docs/ENHANCEMENT_V12.md` ส่วน 9) |
+| 2026-11-15 | เพดานเงินต่อการพยายามตีบวก (V2-R79) | จำกัดไม่เกิน 55,000 ต่อการพยายาม ตามคำสั่งเจ้าของ · ขั้น +11 ถึง +14 ที่เกินเพดานใช้ 55,000 · ขั้น +10 → +11 (40,000) ไม่เปลี่ยน | ค่า V1.2 เดิมยังอยู่ในตาราง `steps` เพื่ออ้างอิง · รวม +10 ถึง +15 เหลือ 2,680,952 เงิน · ตีความเป็นเพดานต่อการพยายาม ไม่ใช่ยอดรวม (`docs/ENHANCEMENT_V12.md` ส่วน 1) |

diff --git a/docs/BALANCE.md b/docs/BALANCE.md
@@ -48,7 +48,7 @@
 ## V2-R78 (ตีบวกอาวุธ V1.2): ค่าเศรษฐกิจและค่าโจมตี
 
 - `CFG.economy` ยังไม่เปลี่ยน (startGold 100 · goldPerExp 0.12 · bossGold 150)
-- จาก +10 ถึง +15 ต้องเงินประมาณ **6.8 ล้าน** และหิน 49.5 ก้อน (ค่าที่ยืนยันแล้ว)
-- เสือ (EXP 193) ให้เงินประมาณ 23 ต่อตัว → ต้องล่าประมาณ 294,000 ตัวเพื่อจ่าย +10 ถึง +15 ยังไม่สมจริงกับเศรษฐกิจปัจจุบัน
+- จาก +10 ถึง +15 ต้องเงินประมาณ **2.68 ล้าน** (หลังเพดาน 55,000 ต่อการพยายามตามคำสั่งเจ้าของ V2-R79; ก่อนเพดาน 6.81 ล้าน) และหิน 49.5 ก้อน
+- เสือ (EXP 193) ให้เงินประมาณ 23 ต่อตัว → ต้องล่าประมาณ 115,800 ตัวเพื่อจ่าย +10 ถึง +15 (ก่อนเพดานประมาณ 294,000 ตัว) ยังสูงกว่าเศรษฐกิจปัจจุบันมาก
 - โบนัส ATK ของการตีบวก = ATK ฐานอาวุธ × 0.06 × ระดับ (ค่าชั่วคราว): ดาบไม้ ATK 4 ที่ +15 ได้ 7.6 · ดาบด้ามแดง ATK 24 ที่ +15 ได้ 45.6 เทียบกับ ATK ฐานผู้เล่น Lv.50 ประมาณ 159
 - ตัวเลขทั้งหมดทำซ้ำได้ด้วย `python3 -B tools/weapon_balance.py` และอ้างอิงใน `docs/ENHANCEMENT_V12.md` ส่วน 3

diff --git a/docs/PLAN_NEXT.md b/docs/PLAN_NEXT.md
@@ -212,4 +212,4 @@
 - ทำแล้ว: ช่างตีเหล็ก (หมู่บ้านเริ่มต้นทั้งสองแห่ง) · หน้าต่างตีบวก · คลังวัตถุดิบ (หินป้องกัน) · ตรรกะเซิร์ฟเวอร์พร้อมประวัติ `enh_log`
 - ทดสอบอัตโนมัติ: `tools/enh-test.js` 50/50 และชุดเดิมทั้งหมดผ่าน (sim 120 · shop 16 · class-weapon 12 · online 104 · smoke 152 · idle 6 · splash-login 7 · character_audit 16)
 - ยังไม่ทำ: จำนวนวัตถุดิบพิเศษ (รออนุมัติ) · ระบบการันตี (ยังไม่อนุมัติ) · WebKit/iPhone จริง · deploy ขึ้น Render
-- รอเจ้าของ (`docs/ENHANCEMENT_V12.md` ส่วน 9): ยืนยันค่าชั่วคราว +0 ถึง +9 · เศรษฐกิจที่จ่าย +10 ถึง +15 ≈ 6.8 ล้านเงิน · ราคาและแหล่งหินป้องกัน · โบนัส ATK 6% · ตำแหน่งช่าง · เวลานำขึ้นเซิร์ฟเวอร์จริง
+- รอเจ้าของ (`docs/ENHANCEMENT_V12.md` ส่วน 9): ยืนยันค่าชั่วคราว +0 ถึง +9 · เศรษฐกิจที่จ่าย +10 ถึง +15 ≈ 2.68 ล้านเงิน หลังเพดาน 55,000 ต่อการพยายาม (V2-R79; ก่อนเพดาน 6.8 ล้าน) · ราคาและแหล่งหินป้องกัน · โบนัส ATK 6% · ตำแหน่งช่าง · เวลานำขึ้นเซิร์ฟเวอร์จริง
